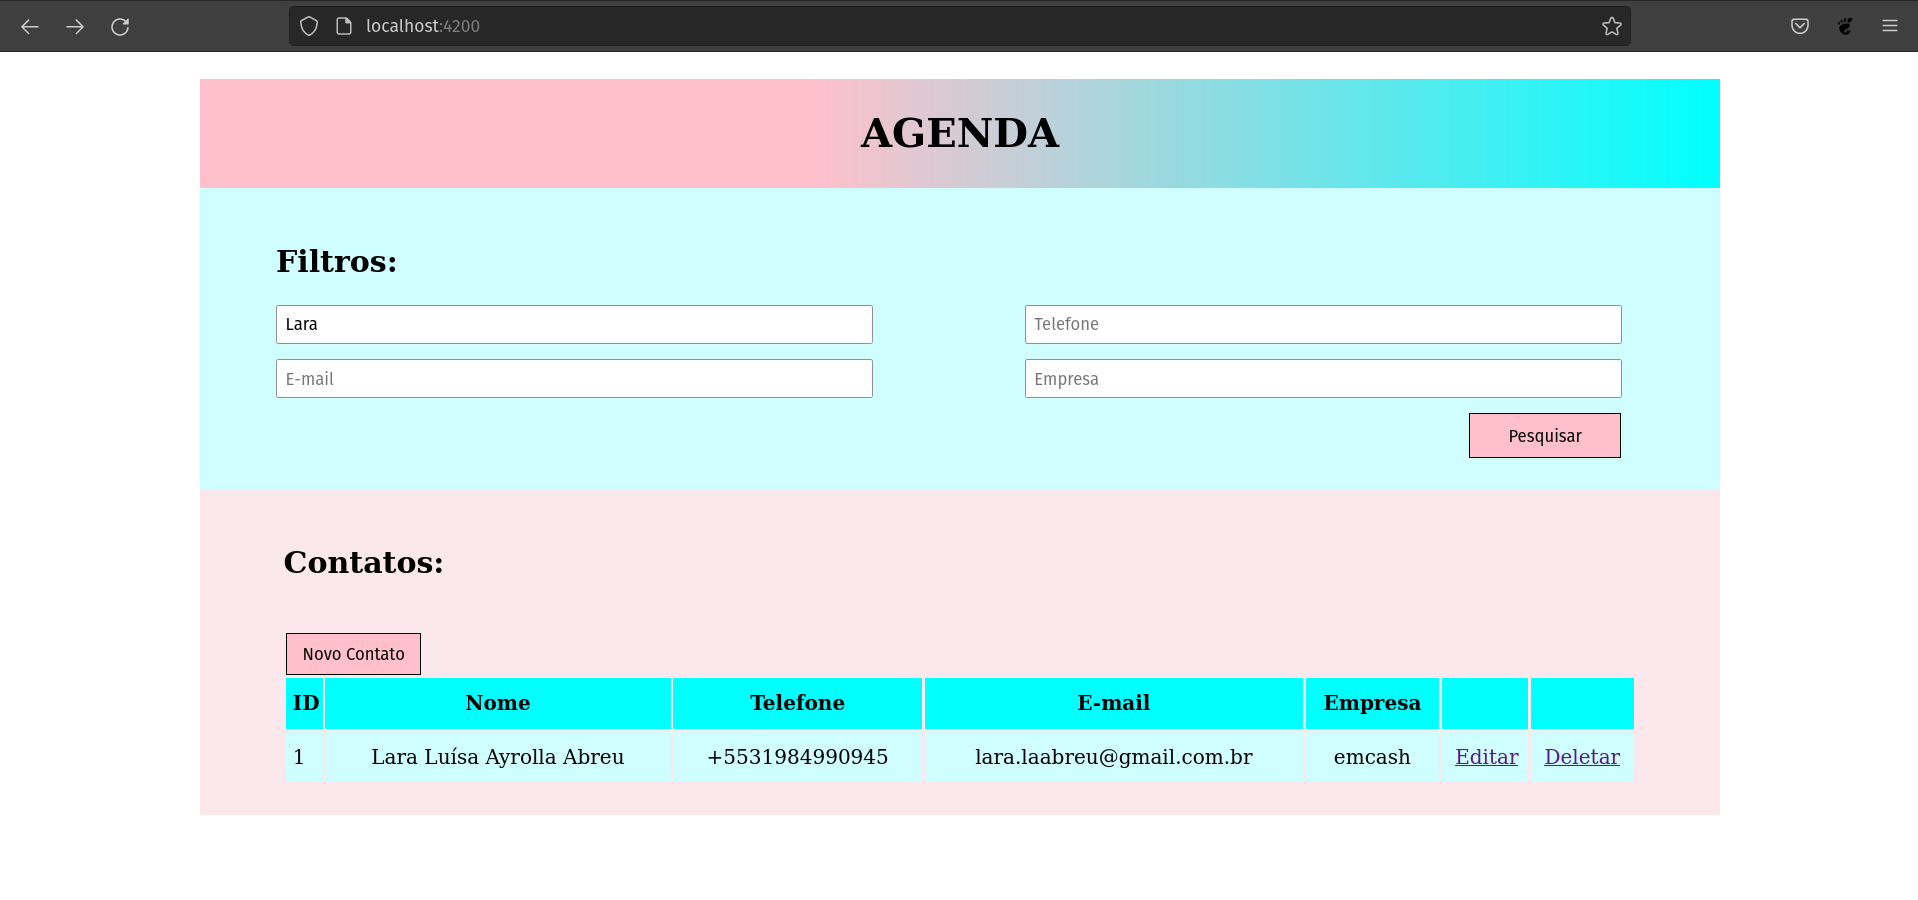
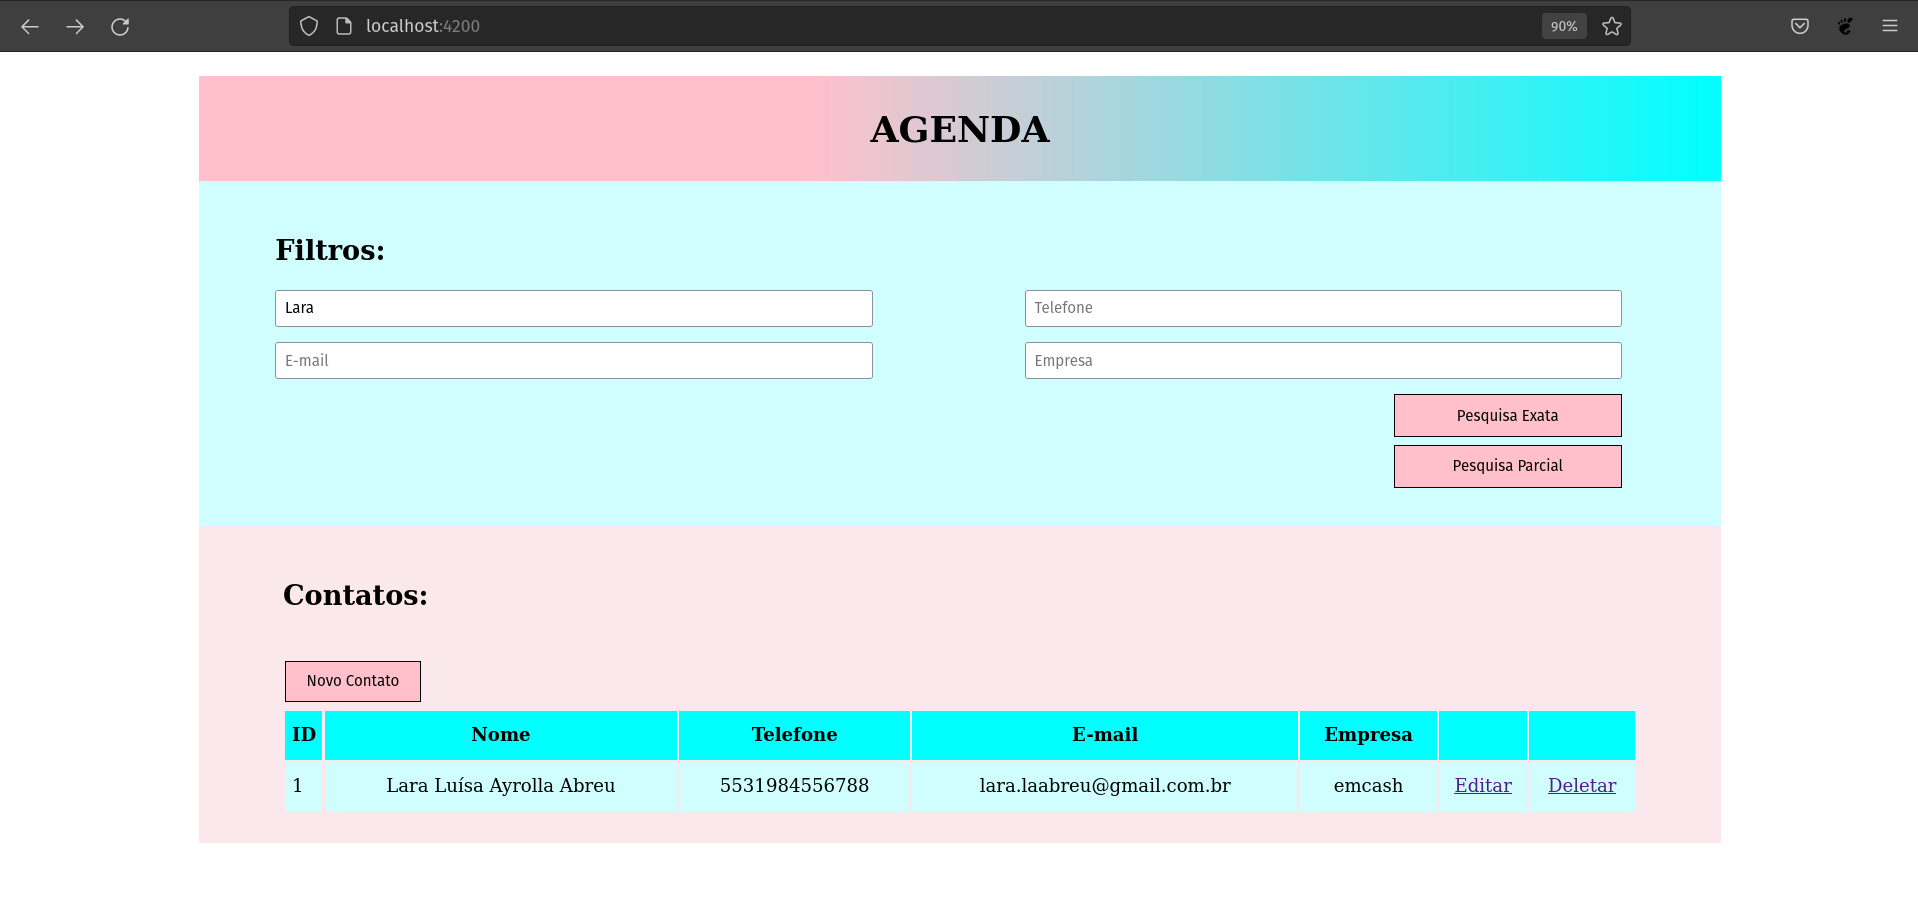
adding exact filters

diff --git a/src/app/contact-list/contact-list.component.ts b/src/app/contact-list/contact-list.component.ts
@@ -10,6 +10,7 @@ import { DOCUMENT } from '@angular/common';
 })
 export class ContactListComponent {
   contacts: any;
+  url: any;
   constructor(@Inject(DOCUMENT) document: Document, private http: HttpClient) {}
   ngOnInit(): void {
     this.http.get('http://localhost:3000/contacts').subscribe(res => {
@@ -24,6 +25,24 @@ export class ContactListComponent {
     const url = 'http://localhost:3000/contacts?name_like=' + name + '&phone_like=' + phone
       + '&email_like=' + email + '&company_like=' + company;
     this.http.get(url).subscribe(res => {
+      this.contacts = res
+    })
+  }
+  filterContactsExact(){
+    const name = (<HTMLInputElement>document.getElementById("name")).value;
+    const phone = (<HTMLInputElement>document.getElementById("phone")).value
+    const email = (<HTMLInputElement>document.getElementById("email")).value
+    const company = (<HTMLInputElement>document.getElementById("company")).value
+    this.url = 'http://localhost:3000/contacts';
+    if (name!=null && name!='')
+      this.url+= '?name=' + name;
+    if (phone!=null && phone!='')
+      this.url+= '&phone=' + phone;
+    if (email!=null && email!='')
+      this.url+= '&email=' + email;
+    if (company!=null && company!='')
+      this.url+= '&company=' + company;
+    this.http.get(this.url).subscribe(res => {
       this.contacts = res
     })
   }

diff --git a/src/app/contact-list/contact-list.component.html b/src/app/contact-list/contact-list.component.html
@@ -5,7 +5,8 @@
         <input id="phone" type="text" placeholder="Telefone" mask="+##(##)#####-####">
         <input id="email" type="text" placeholder="E-mail">
         <input id="company" type="text" placeholder="Empresa">
-        <button class="search-button" type="button" (click)="filterContacts()">Pesquisar</button>
+        <button class="search-button" type="button" (click)="filterContactsExact()">Pesquisa Exata</button>
+        <button class="search-button" type="button" (click)="filterContacts()">Pesquisa Parcial</button>
     </form>
 </div>
 <router-outlet></router-outlet>

diff --git a/src/app/contact-list/contact-list.component.css b/src/app/contact-list/contact-list.component.css
@@ -5,7 +5,7 @@ button{
     border-color: #000000;
     border-width: 1px;
     padding: 0.75%;
-    width: 10%;
+    margin-bottom: 0.5%;
 }
 
 /*filters*/
@@ -26,7 +26,8 @@ input{
     margin-bottom: 1%;
 }
 .search-button{
-    margin-left: 83.5%;
+    width: 15%;
+    margin-left: 78.5%;
 }
 
 /*contact list*/
@@ -36,8 +37,8 @@ input{
     background-color: #fbe8ec;
 }
 .create-button{
+    width: 10%;
     margin-top: 2%;
-    margin-bottom: 0;
     margin-left: 2px;
 }
 .create-link{
